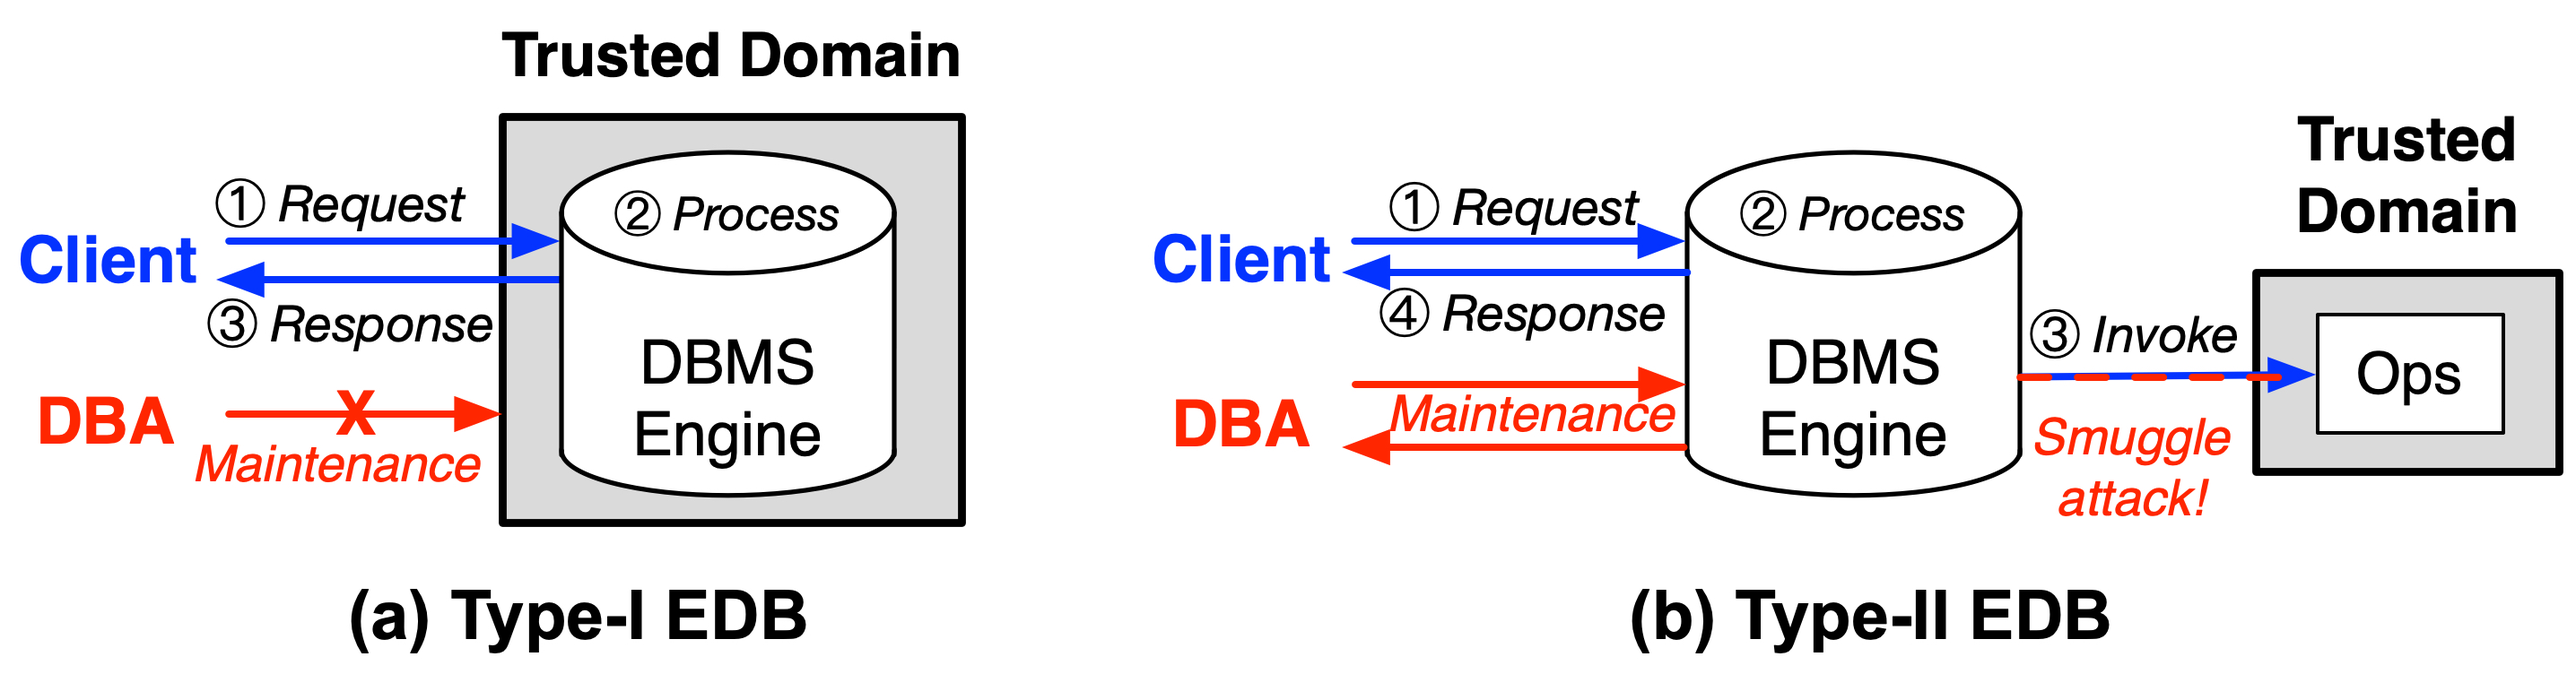
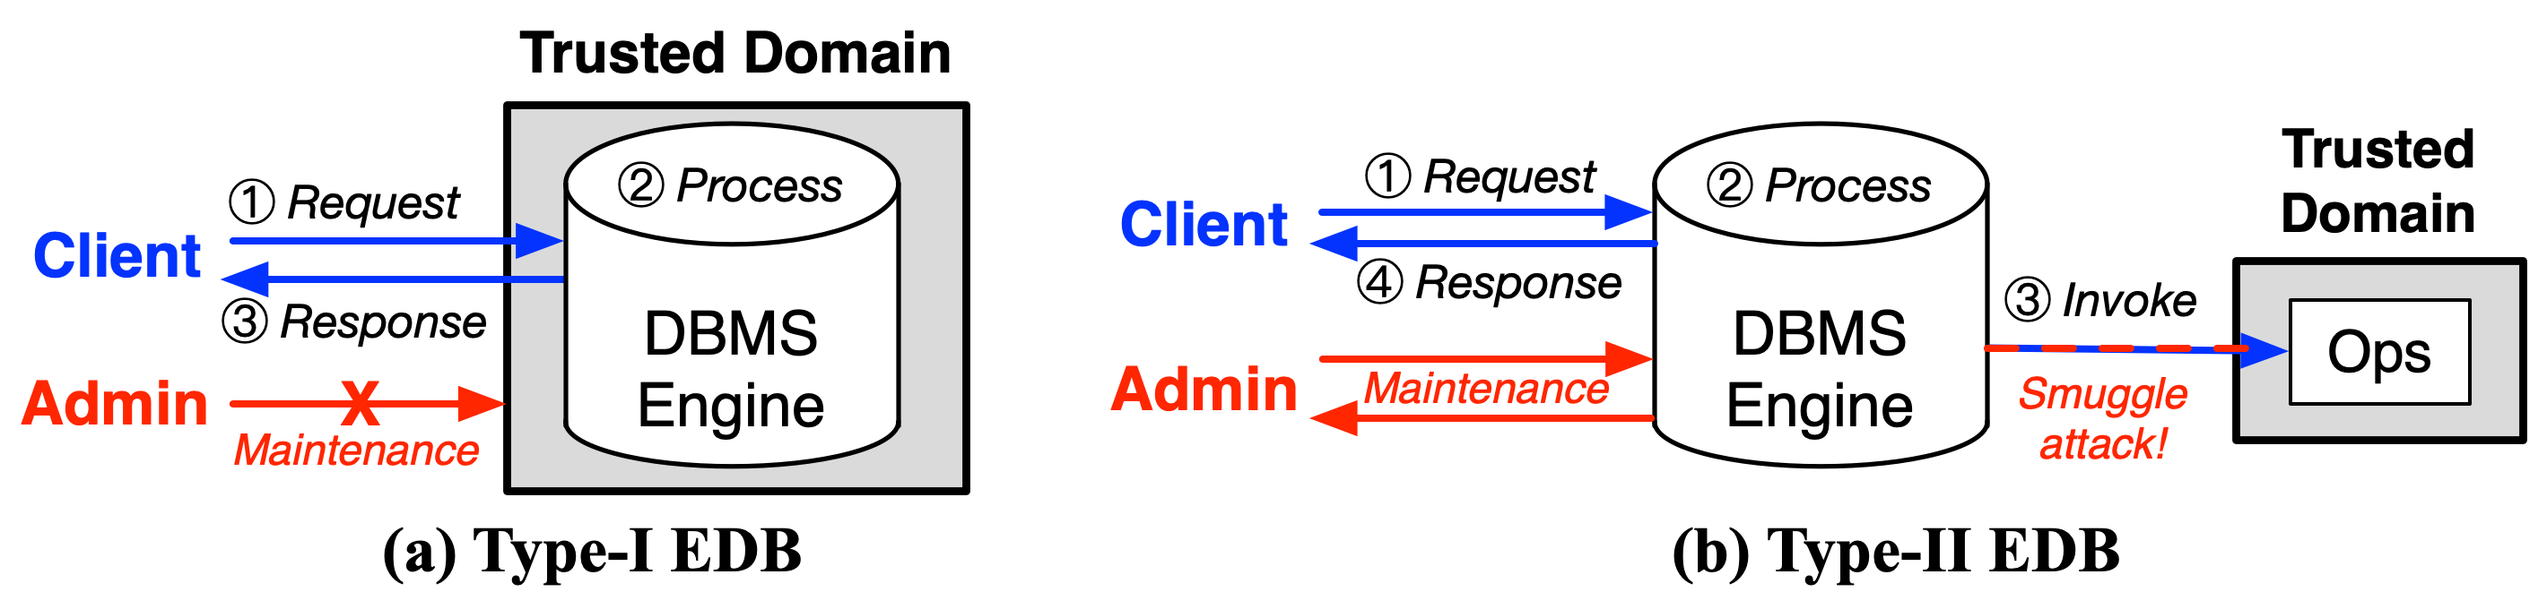
update fiigures

diff --git a/README.md b/README.md
@@ -63,13 +63,13 @@ Here is a quick overview for any newcomers to understand the purpose of HEDB.
 
 Database systems may contain sensitive data, and some are outsourced to third-parties to manage, optimize, and diagnose, called database-as-a-service (DBaaS). To protect sensitive data in use, secrets should be kept encrypted as necessary.
 
+<p align="center">
+  <img src="scripts/figures/types.jpg" width = "760" height = "180" align=center />
+</p>
+
 **Option-1**: To build an encrypted database (EDB), one can place an entire database into an isolated domain, or confidential computing unit (like Intel SGX, AMD SEV, Intel TDX, ARM Realm, IBM PEF, AWS Nitro, Ant HyperEnclave, and whatever you name it). We call it Type-I EDB. Sadly, Type-I would prevent database admins, or DBAs, from managing the database, right? If DBAs were able to log into the DBMS, they would inspect any user data.
 
 **Option-2**: Cloud DBaaS vendors such as Azure, Alibaba, Huawei and others provision operator-based EDBs. You can dive into [here](https://github.com/SJTU-IPADS/HEDB/blob/main/src/) to navigate how to build such an EDB using PostgreSQL' user-defined types (UDTs) and user-defined functions (UDFs). We call it Type-II EDB. Type-II EDB allows a DBA to log into the database, but keeps data always in ciphertext to avoid potential leakage. Cool!
-
-<p align="center">
-	<img src="scripts/figures/types.jpg" width = "600" height = "160" align=center />
-</p>
 
 Sad again, we've discovered an attack named "Smuggle". You can find how it works in [tools/smuggle.py](https://github.com/SJTU-IPADS/HEDB/blob/main/tools/smuggle.py), which reveals an integer column in TPC-H. The reason why smuggle exists is that the Type-II EDB exposes sufficient expression operators for admins to construct an "oracle".
 
@@ -85,23 +85,24 @@ Here is a minimal working example.
 
 ## HEDB as a Solution
 
-The idea of HEDB is simple. It splits the running mode of an EDB into two: *record* for users, and *replay* for DBAs.
+<p align="center">
+  <img src="scripts/figures/arch.jpg" width = "500" height = "260" align=center />
+</p>
 
-HEDB is named after Helium, implying its two modes. Briefly, HEDB is a dual-mode encrypted database that removes the tension between security and maintenance.
+The idea of HEDB is simple. It splits the running mode of an EDB into two: *Execution Mode* for users, and *Maintenance Mode* for DBAs. HEDB is named after Helium, implying its two modes. HEDB removes the tension between security and maintenance.
 
-1) Execution Mode achieves interface security by blocking illegal operator invocations,
-2) Maintenance Mode allows DBA common maintenance tasks by replaying invocations.
+1) *Execution Mode* prevents Smuggle attacks by blocking non-user operator invocations,
+2) *Maintenance Mode* allows DBAs to perform maintenance tasks by replaying invocations.
 
 ### Defense
 
-HEDB requires using two confidential VMs (CVMs) as the basic setting. For those who do not have CVMs machines (e.g., ARM CCA, AMD SEV, Intel TDX, etc.), we recommend you to use 2 QEMU-KVM VMs, depending on your computer architecture, either choose [vm-setup-aarch64.md](https://github.com/SJTU-IPADS/HEDB/blob/main/docs/vm-setup-aarch64.md) or [vm-setup-x86_64.md](https://github.com/SJTU-IPADS/HEDB/blob/main/docs/vm-setup-x86_64.md). These tutorials will guide you on how to create 2 VMs that host DBMS and operators, separately, and how to perform a mode switch using QEMU VM snapshots.
+To launch HEDB, you need to use two confidential VMs (CVMs) as the setting. For those who do not have CVMs machines (e.g., ARM CCA, AMD SEV, Intel TDX, etc.), you can use 2 QEMU-KVM VMs to simulate CVMs. Depending on your computer architecture, either choose [vm-setup-aarch64.md](https://github.com/SJTU-IPADS/HEDB/blob/main/docs/vm-setup-aarch64.md) or [vm-setup-x86_64.md](https://github.com/SJTU-IPADS/HEDB/blob/main/docs/vm-setup-x86_64.md). These tutorials will guide you on how to create 2 VMs that host DBMS and operators, separately, and how to perform a mode switch using QEMU-based VM snapshotting.
 
 ### Record/Replay
 
-HEDB record/replay is for bug reproducing. It logs all ops invocations, including parameters and results, for future replays. We use TPC-H as the demonstrative benchmark.
+HEDB [record/replay](https://github.com/SJTU-IPADS/HEDB/tree/main/src/integrity_zone/record_replay) is meant for reproducing bugs. It logs all ops invocations, including parameters and results, for later replays. We use TPC-H as the demonstrative benchmark.
 
-For security reasons, constants in the SQLs should be encrypted in advance.
-As the current implementation lacks client-side encryption, we should transform the constants into encrypted values using operators in the client mode. A future work is to seek and implement a simple client-side encryption or proxy-side encryption.
+For privacy reasons, SQL constants should be encrypted in advance. Because the current implementation lacks client-side encryption, we should transform the constants into encrypted values using operators in the client mode. A future work is to seek and implement a simple client-side encryption or proxy-side encryption.
 
 ```sh
 ## make dependencies installed
@@ -129,10 +130,10 @@ $ python3 run.py --skip-generate --record-replay replay
 
 If you shut down the operators VM, you can still replay the SQLs. This is exactly how HEDB prevents Smuggle but can reproduce bugs for DBAs.
 
-### HotFix
+### Hotfix
 
 HEDB translates common DBA actions into hotfix templates.
-HEDB runs a hotfix server inside the DBMS CVM, and allows a skillful DBA to instruct the server as a maintenance agent. See more details in [tools/hotfix](https://github.com/SJTU-IPADS/HEDB/tree/main/tools/hotfix).
+HEDB runs a hotfix server inside the DBMS CVM, and allows a skillful DBA to instruct the server as a maintenance agent. Please read details in [tools/hotfix](https://github.com/SJTU-IPADS/HEDB/tree/main/tools/hotfix).
 
 ### Paper
 
